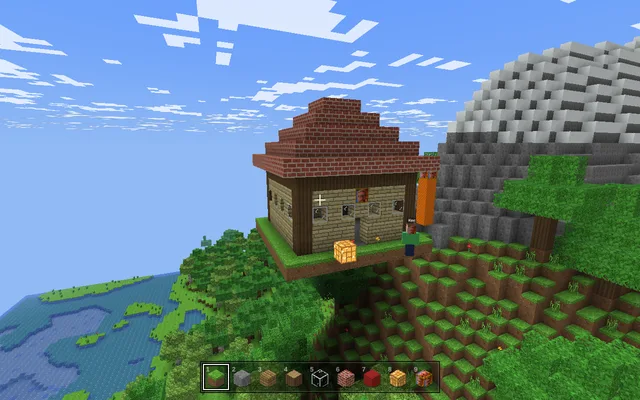
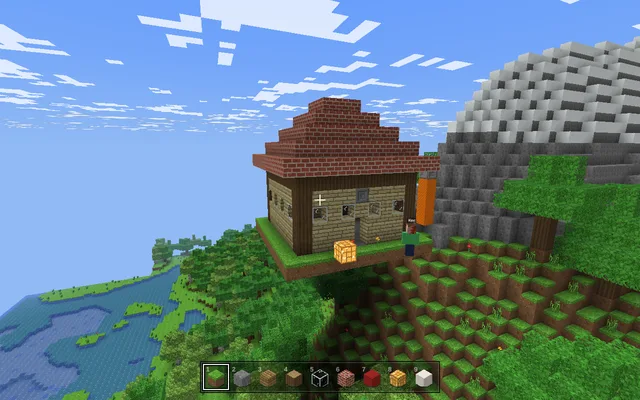
BDB Craft: drop the face block, Chiseled Stone Bricks in its slot
Claude-Session: https://claude.ai/code/session_01553PDU8sd3HscmWG3hFphE

diff --git a/craft/tex.js b/craft/tex.js
@@ -1,6 +1,6 @@
 /* BDB Craft: every block texture, drawn pixel by pixel in code at 16 x 16 and doubled to 32 (the BDB Block is the one drawn at full size, from his photo).
    Nothing is copied from any other game: each one is a little recipe of colours, noise and shapes. Also the cube icons for the hotbar and inventory. */
-import { TEX, T, COLOURS, BLOCKS, FACE } from './blocks.js?v=c1';
+import { TEX, T, COLOURS, BLOCKS, FACE } from './blocks.js?v=c2';
 export const TS = 32;
 const rgb = h => { const n = parseInt(h.slice(1), 16); return [n >> 16 & 255, n >> 8 & 255, n & 255]; };
 const mix = (a, b, t) => a.map((v, i) => v + (b[i] - v) * t);
@@ -109,7 +109,11 @@ const R = {
   hay_top:s => { const p = new Pic(s).fill(rgb('#c9a83b'), .18); p.each((x, y) => { const d = Math.hypot(x - 7.5, y - 7.5); if (Math.floor(d * 1.3) % 2) p.set(x, y, mul(p.get(x, y), .85)); }); return p; },
   smooth_stone:s => { const p = new Pic(s).fill(rgb('#a3a3a3'), .04); for (let i = 0; i < 16; i++){ p.set(i, 0, rgb('#b8b8b8')); p.set(0, i, rgb('#b8b8b8')); p.set(i, 15, rgb('#808080')); p.set(15, i, rgb('#808080')); } return p; },
   terracotta:s => new Pic(s).fill(rgb('#9c5a3c'), .08).speck(rgb('#8c4e32'), 10, .05),
-  bdb:s => { const p = new Pic(s).fill(rgb('#f5c934'), .05); return p; },
+  chiseled:s => { const p = new Pic(s).fill(rgb('#7d7d7d'), .06), hi = rgb('#9a9a9a'), lo = rgb('#555555');
+    p.each((x, y) => { if (x === 0 || y === 0) p.set(x, y, hi); else if (x === 15 || y === 15) p.set(x, y, lo); });
+    for (let i = 3; i <= 12; i++){ p.set(i, 3, lo); p.set(3, i, lo); p.set(i, 12, hi); p.set(12, i, hi); }
+    for (let i = 6; i <= 9; i++){ p.set(i, 6, lo); p.set(6, i, lo); p.set(i, 9, hi); p.set(9, i, hi); }
+    return p; },
   tall_grass:s => cross(new Pic(s), p => { for (let k = 0; k < 7; k++){ let x = 1 + p.r() * 14, h = 7 + p.r() * 8; const dx = (p.r() - .5) * .5, c = mul(rgb('#5c9e35'), .75 + p.r() * .5); for (let y = 15; y > 15 - h; y--){ p.set(x | 0, y, mul(c, .8 + (15 - y) / h * .4)); x += dx; } } }),
   flower_red:s => cross(new Pic(s), p => { for (let y = 8; y < 16; y++) p.set(8, y, rgb('#3f7f2a')); p.set(7, 12, rgb('#4f9a33')); p.set(9, 11, rgb('#4f9a33')); for (const [x, y] of [[8, 4], [7, 5], [9, 5], [8, 6], [7, 4], [9, 6], [6, 5], [10, 5], [8, 3], [7, 6], [9, 4]]) p.set(x, y, mul(rgb('#d8282e'), .9 + p.r() * .2)); p.set(8, 5, rgb('#f5d23a')); }),
   flower_yellow:s => cross(new Pic(s), p => { for (let y = 9; y < 16; y++) p.set(8, y, rgb('#3f7f2a')); p.set(9, 13, rgb('#4f9a33')); for (const [x, y] of [[8, 6], [7, 7], [9, 7], [8, 8], [7, 6], [9, 8], [6, 7], [10, 7], [8, 5]]) p.set(x, y, mul(rgb('#f2cf2b'), .9 + p.r() * .2)); p.set(8, 7, rgb('#c46b1a')); }),
@@ -138,15 +142,6 @@ export function paintAll(){
     for (let y = 0; y < TS; y++) for (let x = 0; x < TS; x++){ const s = ((y / k | 0) * 16 + (x / k | 0)) * 4, t = o + (y * TS + x) * 4; out[t] = Math.max(0, Math.min(255, d[s])); out[t + 1] = Math.max(0, Math.min(255, d[s + 1])); out[t + 2] = Math.max(0, Math.min(255, d[s + 2])); out[t + 3] = d[s + 3]; }
   });
   return out;
-}
-/* the BDB Block: his photo, cropped square and framed in gold, written over that layer */
-export function paintFace(out, img){
-  const c = document.createElement('canvas'); c.width = c.height = TS; const x = c.getContext('2d');
-  x.fillStyle = '#f5c934'; x.fillRect(0, 0, TS, TS);
-  const s = Math.min(img.width, img.height) * .74, sx = (img.width - s) / 2, sy = Math.max(0, (img.height - s) * .3);
-  x.imageSmoothingQuality = 'high'; x.drawImage(img, sx, sy, s, s, 2, 2, TS - 4, TS - 4);
-  x.strokeStyle = '#a8790f'; x.lineWidth = 2; x.strokeRect(1, 1, TS - 2, TS - 2);
-  const d = x.getImageData(0, 0, TS, TS).data; out.set(d, T.bdb * TS * TS * 4);
 }
 /* a cube icon (three faces, lit from the top left), or the flat picture for a plant: a data URL for the hotbar and inventory */
 export function icon(layers, id, size = 64){

diff --git a/craft/main.js b/craft/main.js
@@ -1,15 +1,15 @@
 /* BDB Craft: the game. Start screen (your worlds, friends building right now), then the world: walking, flying, breaking and placing, the hotbar and
    every block in the inventory, chat, and the pause screen with invites and settings. The heavy lifting is elsewhere: world.js (chunks), mesh.js (shapes),
    gen.js (the land), render.js (the look), player.js (moving), store.js (saving), party.js (friends). */
-import * as THREE from '../chess/vendor/three.module.min.js?v=c1';
-import { BLOCKS, B, N, CATS, SOLID, PLANT, LIQUID, FACE, CH } from './blocks.js?v=c1';
-import { paintAll, paintFace, icon, TS } from './tex.js?v=c1';
-import { column } from './gen.js?v=c1';
-import { createWorld } from './world.js?v=c1';
-import { blockMaterials, sky, clouds, outline, avatar, HORIZON } from './render.js?v=c1';
-import { createPlayer, EYE } from './player.js?v=c1';
-import { Cloud, Local, session, pack, unpack } from './store.js?v=c1';
-import { openParty, newCode, cleanCode } from './party.js?v=c1';
+import * as THREE from '../chess/vendor/three.module.min.js?v=c2';
+import { BLOCKS, B, N, CATS, SOLID, PLANT, LIQUID, FACE, CH } from './blocks.js?v=c2';
+import { paintAll, icon, TS } from './tex.js?v=c2';
+import { column } from './gen.js?v=c2';
+import { createWorld } from './world.js?v=c2';
+import { blockMaterials, sky, clouds, outline, avatar, HORIZON } from './render.js?v=c2';
+import { createPlayer, EYE } from './player.js?v=c2';
+import { Cloud, Local, session, pack, unpack } from './store.js?v=c2';
+import { openParty, newCode, cleanCode } from './party.js?v=c2';
 
 const Q = new URLSearchParams(location.search), LOCALNET = Q.get('net') === 'local', NOLOCK = Q.has('nolock');
 const $ = id => document.getElementById(id);
@@ -31,7 +31,6 @@ scene.add(new THREE.HemisphereLight(0xdfeeff, 0x6b5a45, 2.2)); const sunL = new 
 const layers = paintAll(), mats = blockMaterials(layers), theSky = sky(scene), cloud = clouds(scene, 1234), hl = outline(scene);
 const icons = []; const iconOf = id => icons[id] || (icons[id] = icon(layers, id, 64));
 const faceImg = new Image(); faceImg.src = '../assets/face.jpg';
-faceImg.onload = () => { paintFace(layers, faceImg); mats.refresh(); icons[B.bdb] = null; hand.drop(B.bdb); if (G) G.refreshBar(); };
 function resize(){ const w = innerWidth, h = innerHeight; renderer.setSize(w, h, false); camera.aspect = w / h; camera.updateProjectionMatrix(); handCam.aspect = w / h; handCam.updateProjectionMatrix(); }
 
 /* the block in your hand, bottom right, drawn on top of everything */
@@ -72,7 +71,7 @@ function startBackdrop(){
   backdrop = {w, a:0}; mats.fog(6 * 16 * .55, 6 * 16 - 4);
 }
 function stopBackdrop(){ if (backdrop){ backdrop.w.dispose(); backdrop = null; } }
-const ICON_W = () => iconOf(B.grass), ICON_F = () => iconOf(B.grass), ICON_L = () => iconOf(B.bdb);
+const ICON_W = () => iconOf(B.grass), ICON_F = () => iconOf(B.grass), ICON_L = () => iconOf(B.bricks);
 const SVG = {
   pen:'<svg viewBox="0 0 24 24"><path d="M4 20h4L19 9l-4-4L4 16z"/></svg>',
   bin:'<svg viewBox="0 0 24 24"><path d="M4 7h16M9 7V4h6v3M6 7l1 13h10l1-13"/></svg>',
@@ -172,7 +171,7 @@ async function sign(reg){
 }
 
 /* ---------- playing a world ---------- */
-const HOTBAR0 = ['grass', 'stone', 'planks_oak', 'log_oak', 'glass', 'bricks', 'wool_red', 'lamp', 'bdb'].map(k => B[k] || B.stone);
+const HOTBAR0 = ['grass', 'stone', 'planks_oak', 'log_oak', 'glass', 'bricks', 'wool_red', 'lamp', 'quartz'].map(k => B[k] || B.stone);
 function makeGame(opt){
   // opt: {name, seed, kind, where, id, chunks, meta, guest, party}
   const world = createWorld({seed:opt.seed, kind:opt.kind, scene, matSolid:mats.solid, matClear:mats.clear, wait:opt.wait});

diff --git a/craft/blocks.js b/craft/blocks.js
@@ -7,7 +7,7 @@ export const COLOURS = [['white', '#e9ecec'], ['orange', '#f07613'], ['magenta',
 export const TEX = ['stone', 'dirt', 'grass_top', 'grass_side', 'cobble', 'planks_oak', 'planks_birch', 'planks_spruce', 'log_oak', 'log_oak_top', 'log_birch', 'log_birch_top', 'log_spruce', 'log_spruce_top',
   'leaves_oak', 'leaves_birch', 'leaves_spruce', 'sand', 'sandstone', 'sandstone_top', 'gravel', 'snow', 'grass_snow', 'ice', 'water', 'glass', 'bricks', 'stone_bricks', 'mossy_cobble', 'clay',
   'ore_coal', 'ore_iron', 'ore_gold', 'ore_diamond', 'ore_emerald', 'ore_ruby', 'block_gold', 'block_iron', 'block_diamond', 'block_emerald', 'bookshelf', 'lamp', 'obsidian', 'bedrock',
-  'cactus_side', 'cactus_top', 'pumpkin_side', 'pumpkin_top', 'melon_side', 'melon_top', 'hay_side', 'hay_top', 'smooth_stone', 'terracotta', 'bdb', 'tall_grass', 'flower_red', 'flower_yellow',
+  'cactus_side', 'cactus_top', 'pumpkin_side', 'pumpkin_top', 'melon_side', 'melon_top', 'hay_side', 'hay_top', 'smooth_stone', 'terracotta', 'chiseled', 'tall_grass', 'flower_red', 'flower_yellow',
   'dead_bush', 'mushroom', 'quartz', 'quartz_top', 'planks_dark', 'log_dark', 'log_dark_top', 'leaves_dark', 'basalt', 'granite', 'mud_bricks', 'crate', 'brick_red', 'tiles',
   ...COLOURS.map(c => 'wool_' + c[0]), ...COLOURS.map(c => 'concrete_' + c[0]), ...COLOURS.map(c => 'glass_' + c[0])];
 export const T = Object.fromEntries(TEX.map((n, i) => [n, i]));
@@ -31,7 +31,7 @@ add('block_gold', 'Block of Gold', 'block_gold', 'ores'); add('block_iron', 'Blo
 add('bookshelf', 'Bookshelf', {top:'planks_oak', side:'bookshelf'}, 'decor'); add('lamp', 'Lamp', 'lamp', 'decor', {glow:true}); add('obsidian', 'Obsidian', 'obsidian', 'build'); add('bedrock', 'Bedrock', 'bedrock', 'build');
 add('cactus', 'Cactus', {top:'cactus_top', side:'cactus_side'}, 'nature'); add('pumpkin', 'Pumpkin', {top:'pumpkin_top', side:'pumpkin_side'}, 'decor'); add('melon', 'Melon', {top:'melon_top', side:'melon_side'}, 'decor');
 add('hay', 'Hay Bale', {top:'hay_top', side:'hay_side'}, 'decor'); add('smooth_stone', 'Smooth Stone', 'smooth_stone', 'build'); add('terracotta', 'Terracotta', 'terracotta', 'build');
-add('bdb', 'BDB Block', 'bdb', 'decor');
+add('chiseled', 'Chiseled Stone Bricks', 'chiseled', 'build');      // this slot was once a block with a face on it; worlds saved then show this instead
 add('tall_grass', 'Tall Grass', 'tall_grass', 'nature', {kind:'plant'}); add('flower_red', 'Red Flower', 'flower_red', 'nature', {kind:'plant'}); add('flower_yellow', 'Yellow Flower', 'flower_yellow', 'nature', {kind:'plant'});
 add('dead_bush', 'Dead Bush', 'dead_bush', 'nature', {kind:'plant'}); add('mushroom', 'Red Mushroom', 'mushroom', 'nature', {kind:'plant'});
 add('quartz', 'Quartz Block', {top:'quartz_top', side:'quartz'}, 'build'); add('planks_dark', 'Dark Oak Planks', 'planks_dark', 'build'); add('log_dark', 'Dark Oak Log', {top:'log_dark_top', side:'log_dark'}, 'nature');

diff --git a/craft/world.js b/craft/world.js
@@ -1,15 +1,15 @@
 /* BDB Craft: the world on the page. Keeps the chunks near the player, asks the workers to make and mesh them, turns meshes into three.js objects, and
    tracks every block anyone changes (mods: the whole chunk, kept for good once one block in it changes; that is what gets saved and sent to friends). */
-import * as THREE from '../chess/vendor/three.module.min.js?v=c1';
-import { CH, H, OPAQUE, SOLID, PLANT, LIQUID, BLOCKS } from './blocks.js?v=c1';
-import { PW, PH, PAD, pidx } from './mesh.js?v=c1';
+import * as THREE from '../chess/vendor/three.module.min.js?v=c2';
+import { CH, H, OPAQUE, SOLID, PLANT, LIQUID, BLOCKS } from './blocks.js?v=c2';
+import { PW, PH, PAD, pidx } from './mesh.js?v=c2';
 const key = (cx, cz) => cx + ',' + cz;
 export function createWorld({seed, kind, scene, matSolid, matClear, workers = Math.max(2, Math.min(4, (navigator.hardwareConcurrency || 4) - 1)), wait}){
   const chunks = new Map(), mods = new Map(), dirty = new Set(), pool = [], jobs = new Map(), queue = new Map(), far = new Set();
   function drain(k, v){ const q = queue.get(k); if (!q) return; for (let j = 0; j < q.length; j += 2) v[q[j]] = q[j + 1]; queue.delete(k); mods.set(k, v); dirty.add(k); }
   let nid = 0, R = 8, centre = [0, 0], busyGen = 0, busyMesh = 0, alive = true, stats = {gen:0, mesh:0};
   for (let i = 0; i < workers; i++){
-    const w = new Worker(new URL('./worker.js?v=c1', import.meta.url), {type:'module'});
+    const w = new Worker(new URL('./worker.js?v=c2', import.meta.url), {type:'module'});
     w.onmessage = e => done(e.data); w.busy = 0; pool.push(w);
   }
   const free = () => pool.reduce((a, w) => w.busy < a.busy ? w : a, pool[0]);

diff --git a/craft/mesh.js b/craft/mesh.js
@@ -3,7 +3,7 @@
    light are merged into one big rectangle ("greedy" meshing). Every corner gets a little shadow where blocks meet (ambient occlusion) and light from the sky,
    which leaves and water dim and solid blocks stop, so caves are dark and trees cast shade. Input: the chunk plus a one-block border from its eight neighbours.
    Output: two meshes, the solid one (leaves and plants cut out by the shader) and the see-through one (water, stained glass). */
-import { CH, H, OPAQUE, CUTOUT, PLANT, LIQUID, TRANS, SELF, GLOW, FACE, T } from './blocks.js?v=c1';
+import { CH, H, OPAQUE, CUTOUT, PLANT, LIQUID, TRANS, SELF, GLOW, FACE, T } from './blocks.js?v=c2';
 export const PAD = 4, PW = CH + 2 * PAD, PH = H + 2;
 export const pidx = (x, y, z) => ((y + 1) * PW + (z + PAD)) * PW + (x + PAD);
 const LSTEP = .2;      // light lost for each block it spreads sideways out of the open sky (under a roof, into a doorway, into a cave mouth)

diff --git a/craft/store.js b/craft/store.js
@@ -1,7 +1,7 @@
 /* BDB Craft: where worlds are kept. Signed in (the same account as Break Room Brawl), worlds live on the BDB server in Supabase, so they follow you to
    any computer and friends can join. Not signed in, or the server is not set up for Craft yet, they live in this browser (IndexedDB).
    A world is its settings (name, seed, type, where you were standing) plus every chunk anyone changed, each squeezed with deflate and sent as base64. */
-import { SUPABASE_URL, SUPABASE_KEY } from '../brawl/config.js?v=c1';
+import { SUPABASE_URL, SUPABASE_KEY } from '../brawl/config.js?v=c2';
 const base = (new URLSearchParams(location.search).get('api') || SUPABASE_URL || '').replace(/\/+$/, '');
 const SKEY = 'brawl-session';
 export function session(){ try { const s = JSON.parse(localStorage.getItem(SKEY)); if (s && typeof s.name === 'string' && typeof s.token === 'string') return s; } catch(e){} return null; }

diff --git a/craft/gen.js b/craft/gen.js
@@ -1,7 +1,7 @@
 /* BDB Craft: making the world. One chunk column at a time (16 x 128 x 16), the same every time for the same seed, so the page only has to keep the blocks
    people have changed. Kinds: 'normal' (oceans, plains, forests, desert, snow, mountains, caves and ore) and 'flat' (a classic flat building world). */
-import { CH, H, SEA, B } from './blocks.js?v=c1';
-import { makeNoise, hash3 } from './noise.js?v=c1';
+import { CH, H, SEA, B } from './blocks.js?v=c2';
+import { makeNoise, hash3 } from './noise.js?v=c2';
 export const idx = (x, y, z) => (y * CH + z) * CH + x;
 const cache = new Map();
 function noiseFor(seed){ let n = cache.get(seed); if (!n){ n = {a:makeNoise(seed), b:makeNoise(seed ^ 0x5bd1e995), c:makeNoise(seed + 7919)}; cache.set(seed, n); } return n; }

diff --git a/craft/party.js b/craft/party.js
@@ -4,7 +4,7 @@
    so the only blocks that travel are the chunks someone has changed.
    Messages: hi (host to a new friend: the world and which chunks changed), ch (one changed chunk), me (my name), p (where I am), e (a block changed),
    c (chat), pl (who is here, from the host). */
-import { openTransport } from '../chess/net.js?v=c1';
+import { openTransport } from '../chess/net.js?v=c2';
 const ABC = 'ABCDEFGHJKLMNPQRSTUVWXYZ23456789';
 export const newCode = () => Array.from(crypto.getRandomValues(new Uint8Array(6)), b => ABC[b % ABC.length]).join('');
 export const cleanCode = s => String(s || '').toUpperCase().replace(/[^A-Z0-9]/g, '').slice(0, 6);

diff --git a/craft/render.js b/craft/render.js
@@ -1,8 +1,8 @@
 /* BDB Craft: how things look. The block shader (every texture sits in one texture array, so a whole chunk is one draw), the sky, the clouds, the outline
    round the block you are pointing at, and your friends' blocky bodies with name tags. */
-import * as THREE from '../chess/vendor/three.module.min.js?v=c1';
-import { TS } from './tex.js?v=c1';
-import { TEX } from './blocks.js?v=c1';
+import * as THREE from '../chess/vendor/three.module.min.js?v=c2';
+import { TS } from './tex.js?v=c2';
+import { TEX } from './blocks.js?v=c2';
 
 const VS = `in vec3 position; in vec3 tex; in float light;
 uniform mat4 modelViewMatrix, projectionMatrix;

diff --git a/craft/worker.js b/craft/worker.js
@@ -1,6 +1,6 @@
 /* BDB Craft: the background worker. Makes chunks and meshes them, so the page never stutters while the world loads. */
-import { genChunk } from './gen.js?v=c1';
-import { meshChunk } from './mesh.js?v=c1';
+import { genChunk } from './gen.js?v=c2';
+import { meshChunk } from './mesh.js?v=c2';
 onmessage = e => {
   const m = e.data;
   if (m.t === 'gen'){ const v = genChunk(m.seed, m.cx, m.cz, m.kind); postMessage({t:'gen', id:m.id, v}, [v.buffer]); }

diff --git a/craft/index.html b/craft/index.html
@@ -245,6 +245,6 @@ body.k{background:#0b1426}
   <div class="panel"><h2 id="mtitle"></h2><p id="mtext"></p><div class="btns"><button type="button" class="k-btn primary" id="mok">Back to the start</button></div></div>
 </section>
 
-<script type="module" src="main.js?v=c1"></script>
+<script type="module" src="main.js?v=c2"></script>
 </body>
 </html>

diff --git a/README.md b/README.md
@@ -42,7 +42,7 @@ Each lives in its own folder and saves a top 5 on the device.
 - `blocks/` Break Room Blocks: falling-blocks puzzle
 - `tycoon/` BDB Tycoon: property-trading board game for 2–6 (bots, pass-and-play, online tables; host-authoritative, bots cover dropped seats)
 - `city/` BDB City (working title): a 3D city builder in three.js r185. Draw roads, zone land and a city grows along them, with traffic, weather, day and night. An early build: no saving yet, and it wants a computer rather than a phone. Built on Fable Cities by raw (MIT, CC0 art; what was changed is in `city/NOTICE.md`), with no build step. What comes next (saving, crime and fire crews, an airport, deals between cities, friends) is in `city/PLAN.md`, and the models being made for it in `city/ASSETS.md`
-- `craft/` BDB Craft: a creative mode block game for computers, in three.js with no build step. Endless worlds made from a seed (eleven biomes, caves, ores, four kinds of tree, or flat), 110 blocks with their own pixel art painted by code (`tex.js`, the BDB Block wears his face), walking, sprinting and flying, break, place and pick, a hotbar and an inventory of every block. Chunks are 16 x 16 x 128, made and meshed in web workers (`gen.js`, `mesh.js`: greedy meshing, corner shadows, sky light that spreads under roofs and into caves), drawn from one texture array. Worlds save to the player's account (the Break Room Brawl one) through `craft/supabase.sql`, which has to be run once in Supabase after `brawl/supabase.sql`, or to the browser without it. Friends join a world with a six letter code, or from Friends building on the start screen, over the chess transport: the host's copy is the real one, only chunks someone changed travel, and only the host saves (`party.js`)
+- `craft/` BDB Craft: a creative mode block game for computers, in three.js with no build step. Endless worlds made from a seed (eleven biomes, caves, ores, four kinds of tree, or flat), 110 blocks with their own pixel art painted by code (`tex.js`), walking, sprinting and flying, break, place and pick, a hotbar and an inventory of every block. Chunks are 16 x 16 x 128, made and meshed in web workers (`gen.js`, `mesh.js`: greedy meshing, corner shadows, sky light that spreads under roofs and into caves), drawn from one texture array. Worlds save to the player's account (the Break Room Brawl one) through `craft/supabase.sql`, which has to be run once in Supabase after `brawl/supabase.sql`, or to the browser without it. Friends join a world with a six letter code, or from Friends building on the start screen, over the chess transport: the host's copy is the real one, only chunks someone changed travel, and only the host saves (`party.js`)
 - `fleet/` Sink BDB: hide your fleet and hunt his, vs BDB at 3 levels or online 1v1 with a fair-play check
 - `brawl/` Break Room Brawl: 3D lane battles in three.js. 248 characters, buildings, spells and traps in 10 builds each (2,480 cards). Every card has one fixed rarity and one of 12 types, and stacking a type in a deck makes it fight harder. Above Legendary sits a God tier (Thor, Death and Zeus so far: powers that reach the whole map, one God to a deck, found in the Divine Chest). Mana comes in half as fast again every two minutes of a match. A deck holds at most 7 Rare, 5 Epic, 3 Legendary and 1 God. Card levels add 3% each and change the card's colour every two levels. A daily reward, three jobs a day (an easy one, a middling one and a hard one, with a chest for doing all three), a win streak and a tower bounty sit on the hub, eight career milestones on the Profile pay a chest for every rung (and upgrade tokens for the higher ones), and BDB brings his cards up to within two levels of a deck that has outgrown its place on the ladder. Abilities live in the rules (`sim.js`): landing blasts, charges, stealth, chain lightning, summons, Mana farms, tower shields. A 1,000-level ladder in ten tiers, quick battles at five skill levels (Easy to Legend), raised odds that pay more (one against two or three BDBs), a win that pays more for every tower taken, two minutes of overtime at four times the Mana, chests with stated odds, 43 ready-made decks, player upgrades bought with tokens from the ladder, a deck builder for new players (the starter deck is bought from a budget of 1,500 coins, and 150,000 more land once it is built), three deck slots that can sit part-built, cards that can be sold back to the Market for a price set by rarity alone (20, 80, 300, 1,200 and 8,000 coins from Common to God; one from its sheet or several at once from the Deck tab, never a card that is in a deck and never the last deck's worth), four graphics settings that step down by themselves on a slow device, 15 arenas (five built in 3D, ten painted floors in `brawl/maps/` that each ladder tier calls home, with the river and bridges read off the painting), device saves with a save code (`store.js` brings old saves up to date), online 1v1 and co-op for two against two or three BDBs at a chosen level, with emotes, pause and a rematch from the result screen (host-authoritative over the chess transport), and a running head-to-head score against every real opponent. Models: KayKit character packs by Kay Lousberg and Ultimate Monsters by Quaternius (all CC0, see `brawl/models/SOURCES.txt`), sharing clip libraries (`am.glb`, `al.glb`) and a weapon rack (`wp.glb`); the forty-odd hero characters (the rigs marked `R` in `brawl/rigs.js`) were generated, rigged and animated with Hyper3D Rodin for this game; the hundred-odd `T_` characters were generated with Tripo and rigged for this game by a fitter of its own (a 20-joint skeleton found from the shape of each T-pose model, or taken from the model's own skeleton when it came with one, and skin weights by bone heat through a voxel copy of it), and all of them play one shared clip library, `aG.glb`. Two are different: the horse (`BlackHorse.glb`) is a Tripo model rigged and animated with Rodin, and the Headless Horseman (`T_Horseman.glb`) is one solid model that is rocked by code. Model files are meshopt-compressed and loaded per match; card pictures in `brawl/art/` are rendered from the models. Scenery in `brawl/props/` is bundled from KayKit Medieval Hexagon, City Builder, Furniture, Restaurant and Dungeon packs (all CC0). Pan/zoom camera, tap-to-inspect, bloom on desktop. Nothing just vanishes when it dies: the rules say what finished each troop and where the blow came from (a `dead` event), and the view picks how the body takes it (thrown clear by a blast or a big hit, toppled, frozen where it stands, dropped out of the sky, flattened by a trap) and what is left of it (burnt to ash, shattered ice, a puddle, lightning that lights it up from the inside, and by type: bones, scrap and sparks, falling leaves, flying paperwork, a column of light, a shadow that swallows it, a soul that leaves). Loose pieces come from two instanced pools, and with reduced motion on everything simply fades. Troops take orders: tap one of yours (or a building that shoots), then tap an enemy troop, building or tower, and it goes for that, past anything nearer, until one of them is gone (`order` in `sim.js`; a guest's order goes to the host the way a card does, a taunt still cannot be ignored, and tapping the troop again calls it off). A troop that finishes three enemies in one life goes on a rampage and gets a perk set by its type (`RAMPAGE` in `cards.js`: Dragon Fury, Wildfire, Cold Snap, Mana Surge, Soul Feast, Smoke, On the Scent, Overgrowth, War Frenzy, Rally, Overclock, Coffee Break), and steps up again at six. The perks ride on a small buff engine in the rules (a list on the unit, totals the rules read) that Boost cards will share. Every card has four goals that each pay coins once, 992 in all (`goalsOf` in `cards.js`: times played, wins with it in the deck, enemies it finished, towers it finished, with stand-ins for cards that cannot do those). The rules keep count per card, including whatever a card summons and whatever its fire or poison finishes; the counts reach a guest in the `over` event, and progress lives in the save. Boosts are a second, small deck that costs no Mana: 504 of them (`BOOSTS` in `cards.js`: fourteen effects, from Lightning Speed and Iron Skin to Second Chance, each for every one of the twelve types, in three strengths). A Boost is dropped on a spot and reaches every troop of its side standing there, whatever its type; troops of the Boost's own type get half as much again. A player keeps a Boost deck of eight for each deck slot, is dealt one every 30 seconds of a match and holds six at most (with a full hand nothing more arrives). Everyone is given twelve plain ones for the types of their deck; the Market sells a Boost Box and every Boost singly. BDB brings his own from the eleventh rung of the ladder up, and uses them: the ones that mend on troops that are hurt, the ones that protect or hit harder on troops in a fight. A guest's Boost deck travels with its hello, and its plays go to the host the way cards do. A player's first match waits for their first card and shows four tips as they come to matter. While a match loads, both sides are shown on name plates with a tip under them, and the result screen names the troop that did the most damage. The game can be added to a phone's home screen (`brawl/manifest.webmanifest`), where it opens without the browser around it. A service worker (`brawl/sw.js`) keeps a copy of the game on the device: the page is asked for fresh each time, files with a version in their address come straight from the copy, and models and pictures are shown from the copy and refreshed behind the scenes, so the game opens at once and plays against BDB with no signal (open it once with `?nosw=1` to throw the copy away). Sound is in `brawl/audio.js`: one file of effects and one looping battle theme in `brawl/snd/` (where each came from is in `brawl/snd/CREDITS.md`), balanced against each other by measured loudness; in the menus the music is muffled, as if the match were next door. Coins, crowns, chests, the trophy and the Mana crystal in `brawl/ui/` are pictures of Tripo models. Accounts, cloud saves, the online list, invites, trading and the league table (everyone with an account, by ladder level, then trophies) go through the SQL functions in `brawl/supabase.sql` (run it once in the Supabase SQL editor; the project URL and anon key are in `brawl/config.js`). Without it the game falls back to saves on the device. Battle Royale puts you and four BDBs in the Octagon, each with a King Tower and two guard towers, no teams and Mana x2 from the start: lose your King Tower and you are out, last one standing wins (`maps/ring.glb` is the arena: made in Tripo, then levelled, sized so its inner wall is the edge of play, and thinned to 40k triangles). Tapping a player in Who's on or the league table opens their profile (level, record, milestones, decks), and from there a trade offer: up to five cards and some coins each way, answered whenever the other player is next on (accept, counter or turn down). What an offer gives is held on the server until it is answered (`brawl_offers` and `brawl_mail` in `supabase.sql`); deliveries reach the save once, by id.
 
